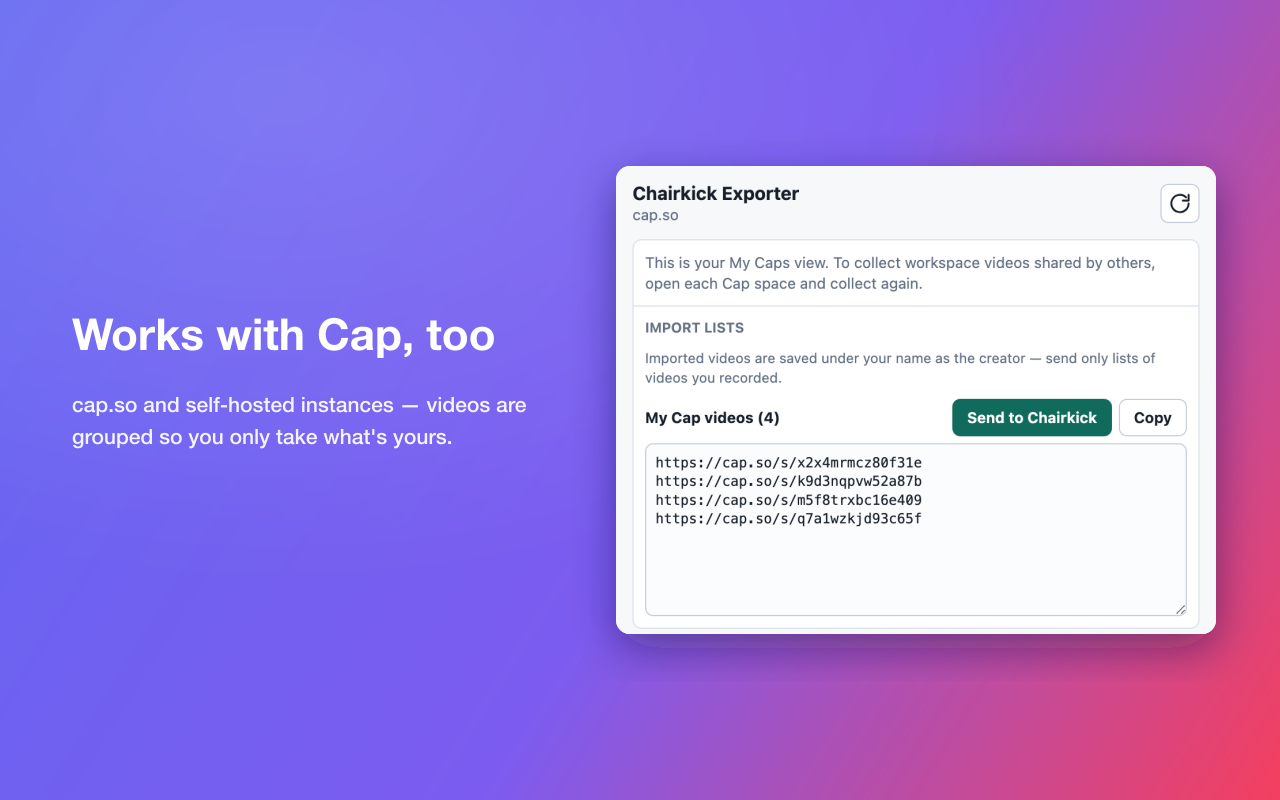
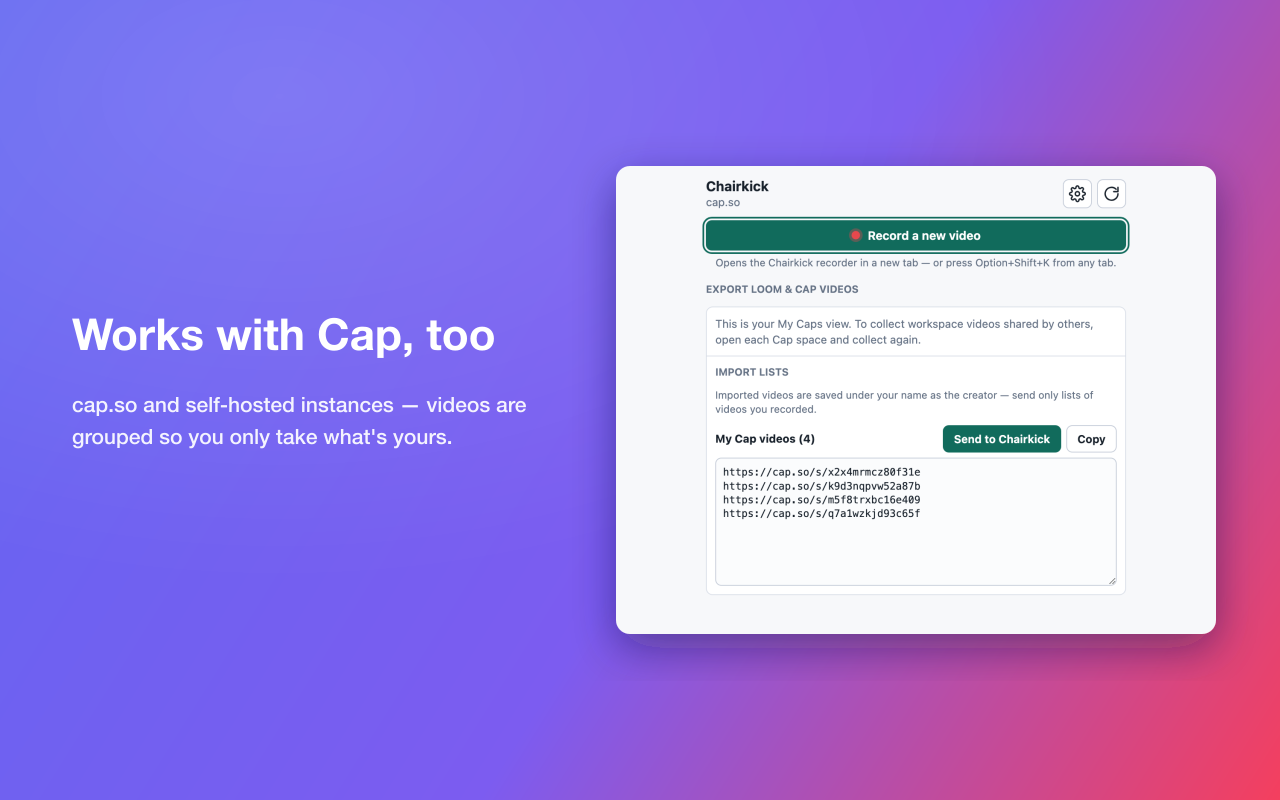
Refresh Web Store screenshots for the recorder release
Claude-Session: https://claude.ai/code/session_01MQxt4RKyDRFy1nqTHMUHg5

Changed region(s): [[0.5, 0.2188, 0.9375, 0.6562], [0.9062, 0.2188, 0.9375, 0.2812]]

diff --git a/store/listing.md b/store/listing.md
@@ -50,7 +50,7 @@ Not affiliated with or endorsed by Loom (Atlassian) or Cap. Loom and Cap are tra
 ### Graphics
 
 - **Store icon 128×128:** `icons/icon-128.png`
-- **Screenshots (1280×800, at least one REQUIRED):** first shot = popup open on any page showing the "Record a new video" button; second = popup open over your Loom library showing collected lists. Blur/crop personal video titles you don't want public.
+- **Screenshots (1280×800):** `store/screenshots/shot-0-record.png` (Record button + shortcut settings), `shot-1-loom.png`, `shot-2-cap.png` — all rendered from the harness (`mock.html`) with headless Chrome, composed by the matching `.svg`, converted with `rsvg-convert -w 1280 -h 800`.
 - **Small promo tile 440×280 (optional but shown in search):** `store/promo-tile-small.png`
 - **Marquee 1400×560 (optional):** skip for v1.
 
